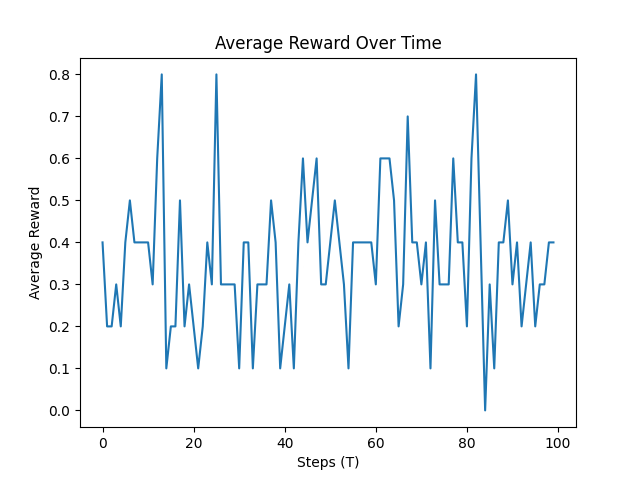
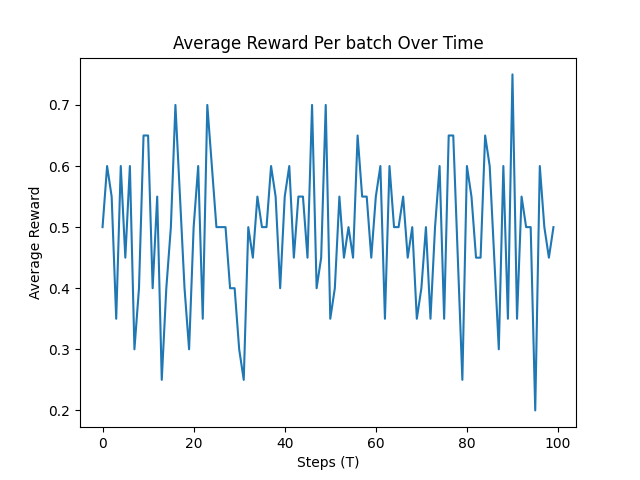
Minor changes

diff --git a/main.py b/main.py
@@ -87,14 +87,14 @@ class ThompsonSampling:
         x = np.concatenate([actions, contexts], axis=1)
         w0 = np.random.multivariate_normal(self.prior_mean, np.diag(self.prior_std))
         result = minimize(
-            lambda w: self.logistic_loss(w, x, np.array(rewards), self.prior_mean, self.prior_std),
+            lambda w: self.logistic_loss(w, x, np.array(rewards), self.prior_mean, (1/self.prior_std)**2),
             w0,
             method='BFGS'
         )
         w_opt = result.x
         self.prior_mean = w_opt
 
-        # Compute Hessian (Fisher Information Matrix)
+        # Compute the updated variance
         n = contexts.shape[0]
         p = np.zeros(n)
         for j in range(n):
@@ -103,12 +103,16 @@ class ThompsonSampling:
             temp = 0
             for j in range(n):
                 temp += (x[j][i] ** 2) * p[j] * (1 - p[j])
-            self.prior_std[i] += temp
+            self.prior_std[i] = np.sqrt(1/((1/self.prior_std[i])**2 + temp))
+
+        # print(self.prior_std)
+        # print(self.prior_mean)
 
 
 class Reward:
     def __init__(self, dim):
-        self.w = np.random.uniform(-1, 1, size=dim)
+
+        self.w = np.random.choice([1, -1], size=dim)
 
     def generate(self, context, action):
         """
@@ -131,7 +135,7 @@ if __name__ == "__main__":
 
     parser = argparse.ArgumentParser()
     parser.add_argument('--T', type=int, default=100, help="number of batches (runs)")
-    parser.add_argument('--n', type=int, default=10, help="batch size")
+    parser.add_argument('--n', type=int, default=5, help="batch size")
     args = parser.parse_args()
 
     T = args.T
@@ -151,5 +155,5 @@ if __name__ == "__main__":
     plt.plot(range(T), average_rewards)
     plt.xlabel('Steps (T)')
     plt.ylabel('Average Reward')
-    plt.title('Average Reward Over Time')
+    plt.title('Average Reward Per batch Over Time')
     plt.savefig('output/average_reward_plot.png')

diff --git a/README.md b/README.md
@@ -9,19 +9,13 @@ these two parameters can be passed to main as command-line arguments.
 From the paper it was not clear how the feature vector is created. The paper states: 
 " A feature vector is constructed for
 every (context, ad) pair and the policy decides which ad to show."
-Here, we consider a very simple scenario, 
+Here, I considered a very simple scenario, 
 where the first two elements of x are binary variables representing the action, 
 and the rest of features are the context. 
-Note that in this simple model, the best action is not dependent on the context which is not very realistic.
-
-We find the action which maximises the output (in a more serious scenario we can find the max based on the ). 
-Maybe there is a mapping from each ad to a latent space, 
-which we use that latent space as representation of that ad in X. 
-It is possible to find a more efficient optimisations if the number of arms are larger.
+Note that in this simple model, the best action is not dependent on the context which is not very realistic/interesting.
 
 ## Testing
 
 Unfortunately, given that I had very limited time this week (due to work, other deadlines, and other interviews),
 I was not able to spend enough time on the task, and decided not to include unittest, or other extensive testing.
-
 I only created a graph showing the average reward with the number of runs. 
